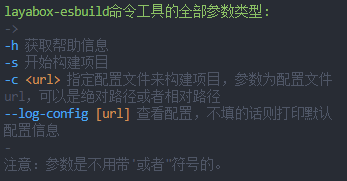
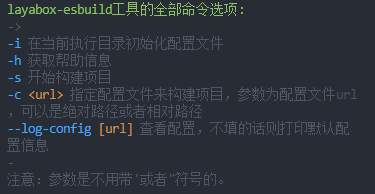
'新添加了一个命令i'

Changed region(s): [[0.0, 0.1381, 0.951, 0.8011], [0.0, 0.0, 0.7781, 0.1105], [0.0, 0.8564, 0.634, 0.9669]]

diff --git a/bin/index.js b/bin/index.js
@@ -3,11 +3,15 @@ const package = require('../package');
 const { Command } = require('commander');
 const chalk = require('chalk');
 const path = require('path');
+const fs = require('fs');
 const layaboxEsbuild = require('../dist/main.js');
-const config = require('../config.js');
-
+/** 默认配置 */
+const defaultConfig = require('../config.js');
+/** 配置文件名字 */
+const configName = 'layabox_esbuild_config.js';
 //
 const program = new Command();
+
 
 //定义版本输出
 program
@@ -15,6 +19,7 @@ program
 
 //定义其它选项
 program
+    .option('-i --init')
     .option('-h, --help_')//防止和help重复
     .option('-s, --start')
     .option('-c, --config <url>')
@@ -28,68 +33,97 @@ program
 //获取参数结果
 const options = program.opts();
 // console.log(options);
-
-//帮助
-if (options.help_) {
-    console.log('\n');
-    console.log(chalk.green('layabox-esbuild命令工具的全部参数类型:'));
-    console.log(chalk.gray('->'));
-    console.log(chalk.blue('-h'), chalk.gray('获取帮助信息'));
-    console.log(chalk.blue('-s'), chalk.gray('开始构建项目'));
-    console.log(chalk.blue('-c'), chalk.yellow('<url>'), chalk.gray('指定配置文件来构建项目，参数为配置文件url，可以是绝对路径或者相对路径'));
-    console.log(chalk.blue('--log-config'), chalk.yellow('[url]'), chalk.gray('查看配置，不填的话则打印默认配置信息'));
-    console.log(chalk.gray('-'));
-    console.log(chalk.gray('注意：参数是不用带\'或者\"符号的。'));
-}
-//查看配置
-else if (options.logConfig) {
-    //
-    let _config = config;
-    console.log(chalk.yellow('配置数据:\n'));
-    //
-    if (typeof options.logConfig == 'string') {
-        let __config = getConfig(options.logConfig);
-        if (__config) {
-            _config = __config;
-        }
-    }
-    // console.log(_config);
-    //执行目录
-    let _cwdUrl = process.cwd();
-    //把config中的几个关键路径转成绝对路径
-    (!path.isAbsolute(_config.src)) && (_config.src = path.resolve(_cwdUrl, _config.src));
-    (!path.isAbsolute(_config.bin)) && (_config.bin = path.resolve(_cwdUrl, _config.bin));
-    //
-    console.log(_config);
-}
-//开始
-else {
-    let _config = {};
-    //设置配置信息
-    if (options.config) {
-        let __config = getConfig(options.config);
-        if (__config) {
-            _config = __config;
-        }
-        //修改了配置地址可以直接开始构建项目
-        options.start = true;
-    }
-    //开始构建
-    if (options.start) {
-        //开始
-        layaboxEsbuild.default.start({
-            //默认配置
-            ...config,
-            //新增配置
-            ..._config,
+//执行目录
+let _cwdUrl = process.cwd();
+let _config = {};
+switch (true) {
+    //初始化
+    case Boolean(options.init):
+        let _defaultConfigUrl = path.join(__dirname, '../config.js');
+        let _configUrl = path.join(_cwdUrl, configName);
+        //先查看是否有该文件
+        fs.stat(_configUrl, (err, stats) => {
+            if (!err && stats.isFile()) {
+                console.log(chalk.red('配置文件已经存在，请在该文件上添加配置。', _configUrl));
+                return;
+            }
+            //
+            let stream = fs.createReadStream(_defaultConfigUrl).pipe(fs.createWriteStream(_configUrl));
+            stream.on('close', () => {
+                console.log(chalk.green('配置文件初始化完成。'));
+            });
         });
-    } else {
+        //
+        break;
+    //帮助
+    case Boolean(options.help_):
+        console.log('\n');
+        console.log(chalk.green('layabox-esbuild工具的全部命令选项:'));
+        console.log(chalk.gray('->'));
+        console.log(chalk.blue('-i'), chalk.gray('在当前执行目录初始化配置文件'));
+        console.log(chalk.blue('-h'), chalk.gray('获取帮助信息'));
+        console.log(chalk.blue('-s'), chalk.gray('开始构建项目'));
+        console.log(chalk.blue('-c'), chalk.yellow('<url>'), chalk.gray('指定配置文件来构建项目，参数为配置文件url，可以是绝对路径或者相对路径'));
+        console.log(chalk.blue('--log-config'), chalk.yellow('[url]'), chalk.gray('查看配置，不填的话则打印默认配置信息'));
+        console.log(chalk.gray('-'));
+        console.log(chalk.gray('注意：参数是不用带\'或者\"符号的。'));
+        break;
+    //查看配置
+    case Boolean(options.logConfig):
+        //
+        console.log(chalk.yellow('配置数据:\n'));
+        //
+        if (typeof options.logConfig == 'string') {
+            _config = getConfig(options.logConfig) || _config;
+        } else {
+            //默认在项目执行目录下找配置文件
+            _config = getConfig(path.join(_cwdUrl, configName)) || _config;
+        }
+        //组合配置内容
+        _config = {
+            ...defaultConfig,
+            ..._config,
+        };
+        // console.log(_config);
+        //把config中的几个关键路径转成绝对路径
+        (!path.isAbsolute(_config.src)) && (_config.src = path.resolve(_cwdUrl, _config.src));
+        (!path.isAbsolute(_config.bin)) && (_config.bin = path.resolve(_cwdUrl, _config.bin));
+        //
+        console.log(_config);
+        break;
+    //指定配置构建
+    case Boolean(options.config):
+        _config = getConfig(options.config);
+        build(_config);
+        break;
+    //开始构建
+    case Boolean(options.start):
+        _config = getConfig(path.join(_cwdUrl, configName));
+        build(_config);
+        break;
+    //直接执行
+    default:
         console.log(chalk.yellow('没有执行任何操作，可能是执行时没有加参数，查看所有命令 -h'));
-    }
+        break;
 }
 
 /**
- * 获取配置信息
+ * 开始构建
+ * @param {*} _config 配置信息
+ */
+function build(_config = {}) {
+    //开始
+    layaboxEsbuild.default.start({
+        //默认配置
+        ...defaultConfig,
+        //新增配置
+        ..._config,
+    });
+}
+
+/**
+ * 通过一个地址获取配置信息
+ * @param {*} _url 地址 可以是相对地址也可以是绝对地址
  */
 function getConfig(_url) {
     //执行目录
@@ -103,7 +137,7 @@ function getConfig(_url) {
             _config = require(_url);
         } catch (e) {
             //
-            console.log(chalk.red('获取配置文件失败！错误地址为: ', _url));
+            console.log(chalk.red('获取配置文件失败，将使用默认配置！错误地址为: ', _url));
         }
     }
     //

diff --git a/public/sw.js b/public/sw.js
@@ -55,8 +55,10 @@ this.addEventListener('fetch', function (event) {
             //判断response的响应头，是否应该添加到缓存中。
             if (response.headers.has('file-only-key')) {
                 // console.log('添加进缓存', response);
-                //添加到缓存中，注意，必须添加克隆板，不然只能用一次
-                cacheT.add(event.request.url, response.headers.get('file-only-key'), response.clone());
+                //添加到缓存中，注意，必须添加克隆板，不然只能用一次，要判断当前webSocket有没有用，不然添加上去没法更新也没有意义
+                if (webSocketT.usable) {
+                    cacheT.add(event.request.url, response.headers.get('file-only-key'), response.clone());
+                }
             }
             //返回响应
             return response;
@@ -74,6 +76,8 @@ this.addEventListener('fetch', function (event) {
 class webSocketT {
     /** 实例 */
     static instance;
+    /** 是否可用 */
+    static usable;
 
     /**
      * 更新
@@ -83,6 +87,15 @@ class webSocketT {
         this.instance && this.instance.close();
         /** 开启新的连接 */
         this.instance = new WebSocket('ws://${{hostname}}:${{webSocketPort}}/');
+        this.usable = true;
+        //webSocket错误的回调
+        this.instance.addEventListener('error', () => {
+            console.error('webSocket出错啦！');
+            //清空所有缓存
+            cacheT.removeAll();
+            //
+            this.usable = false;
+        });
     }
 
     /**

diff --git a/dist/main.js b/dist/main.js
@@ -24,6 +24,7 @@ class layaboxEsbuild {
             //代理bin
             BinProxy_1.default.start();
             //提示bin目录的主页地址
+            console.log(chalk.gray('---->'));
             console.log(chalk.green('本地主页:'), chalk.magenta(BinProxy_1.default.getLocalHomePage()), chalk.gray('更快'));
             console.log(chalk.green('局域网主页:'), chalk.magenta(BinProxy_1.default.getHomePage()));
             console.log(chalk.gray('>'));

diff --git a/src/Main.ts b/src/Main.ts
@@ -25,6 +25,7 @@ export default class layaboxEsbuild {
 			//代理bin
 			BinProxy.start();
 			//提示bin目录的主页地址
+			console.log(chalk.gray('---->'));
 			console.log(chalk.green('本地主页:'), chalk.magenta(BinProxy.getLocalHomePage()), chalk.gray('更快'));
 			console.log(chalk.green('局域网主页:'), chalk.magenta(BinProxy.getHomePage()));
 			console.log(chalk.gray('>'));

diff --git a/layabox_esbuild_config.js b/layabox_esbuild_config.js
@@ -5,6 +5,6 @@ module.exports = {
     /** 代理bin目录，可以是绝对路径或者相对路径 */
     bin: './test/bin/',
     //
-    // src: 'F:/word/shotgame/src',
-    // bin: 'F:/word/shotgame/bin',
-}
+    // src: 'F:/item/Laboratory/src/',
+    // bin: 'F:/item/Laboratory/bin/',
+};

diff --git a/test/src/Main.ts b/test/src/Main.ts
@@ -4,4 +4,4 @@ import './com/test';
 
 console.log(_module);
 
-console.log('测试', 90);
+console.log('测试', 95);

diff --git a/test/src/com/test.ts b/test/src/com/test.ts
@@ -1,1 +1,1 @@
-console.log('test', 3);
+console.log('test', 4);

diff --git a/README.md b/README.md
@@ -41,14 +41,18 @@
 
   <img src="./res/order.png">
 
+- `layabox-esbuild -i`
+
+  - 在执行目录下初始化配置文件，内容是默认的配置内容。
+
 - `layabox-esbuild -s`
 
-    - 直接开始构建项目，当看到如下输出时就说明跑起来了。
+    - 直接开始构建项目，当看到如下输出时就说明跑起来了，局域网主页不固定，这里只是实例，本地主页更快的原因是使用 service worker 在浏览器和服务器之间加了一层缓存，所以建议开发时用这个地址。
 
         <img src="./res/home.png">
 
 - `layabox-esbuild -c <url>`
-    - 指定配置文件来构建项目。
+    - 指定配置文件来构建项目，不推荐使用，建议使用 `-i` 选项在当前目录下生成一个配置文件然后在这个配置文件的基础上进行配置。
     - 在项目根目录下创建 layaboxEsbuildConfig.js [位置，名字都可以随便，执行命令时参数填对就行了] 文件，然后导出一个满足IConfig接口的对象就行了，默认配置示例如下：
 
         ``` javascript
@@ -108,6 +112,9 @@ interface IConfig {
 ```
 
 ## 注意
+
+- 最重要的事。
+  - 本工具不会修改项目的任何内容，相对于只是一个更快的快捷方式而已。
 
 - esbuild只是构建项目，不会把src的代码打包到bin/js/bundle.js文件里面而是缓存在内存中的，所以只能在开发环境中使用，最后再用laya的编译和打包，把代码都打包到bin/js/bundle.js文件中，它的作用只能体现再开发时，能更快的响应代码改动，不会影响最终laya编译的结果。
 
